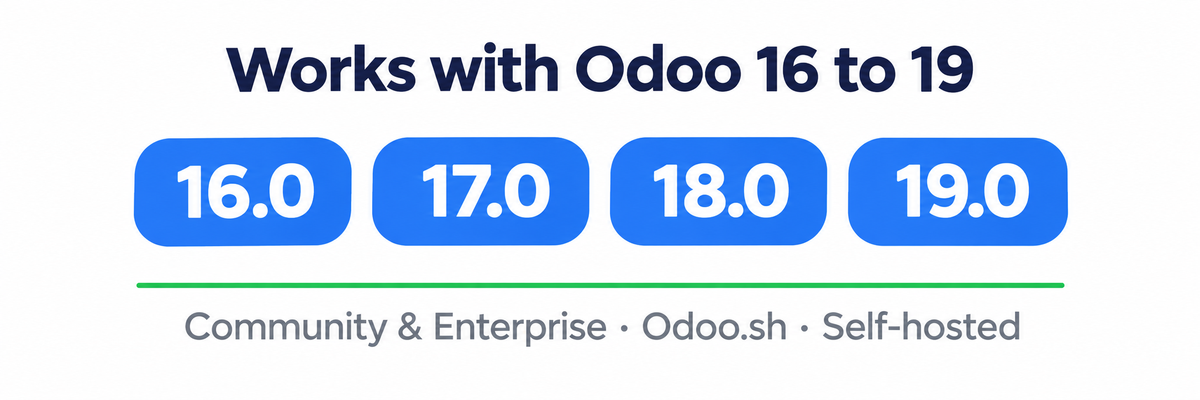
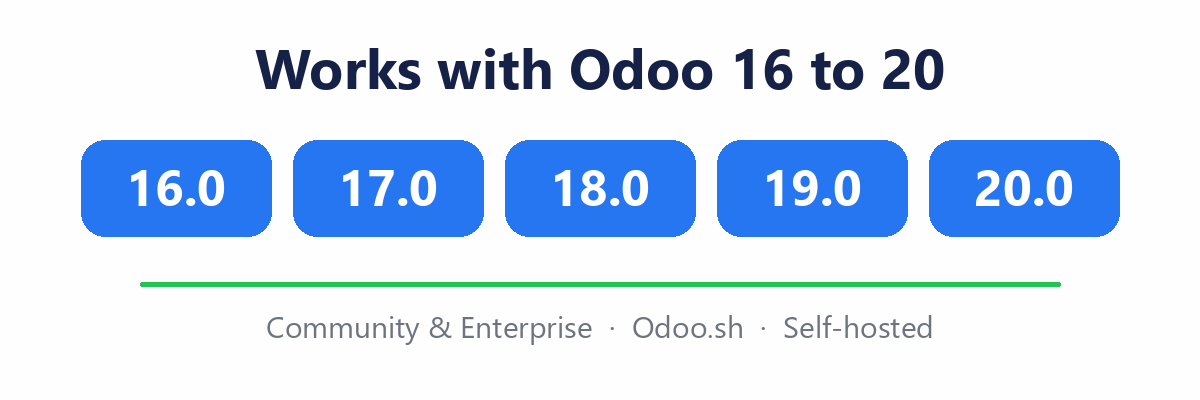
docs: list Odoo 20 support (store image, alt text, README)

diff --git a/qualid_whatsapp/static/description/index.html b/qualid_whatsapp/static/description/index.html
@@ -112,7 +112,7 @@
 
 <section class="oe_container">
     <div class="oe_row oe_spaced" style="text-align:center">
-        <img src="img/versions.png" alt="Works with Odoo 16, 17, 18 and 19" style="max-width:100%"/>
+        <img src="img/versions.png" alt="Works with Odoo 16, 17, 18, 19 and 20" style="max-width:100%"/>
     </div>
 </section>
 

diff --git a/README.md b/README.md
@@ -85,13 +85,14 @@ Error responses carry an `error_code`. Common values are `ODOO_TOKEN_INVALID`, `
 
 ## Version branches
 
-Use the branch that matches your Odoo version. All four pass the same test suite: install, settings page, ready-made automations, rules firing (including PDF headers), empty-variable protection and the send wizard.
+Use the branch that matches your Odoo version. All five pass the same test suite: install, settings page, ready-made automations, rules firing (including PDF headers), empty-variable protection and the send wizard.
 
 | Branch | Odoo | Notes |
 |---|---|---|
 | `17.0` | 17.0 | Primary development version |
 | `18.0` | 18.0 | Same features. The invoice report is called *Invoice PDF* |
 | `19.0` | 19.0 | Same features. Odoo 19 removed `mobile`, so contacts and leads use `phone`. "Before the due date" reminders use the *Before* delay mode |
+| `20.0` | 20.0 | Same features. Odoo 20 needs PostgreSQL 16 or newer. Webhooks send image/file fields as `{"content": "<base64>"}`, which Quali-D also accepts |
 | `16.0` | 16.0 | Same features. Odoo 16 has no "State is set to" trigger, so recipes use *On Creation & Update* on the State field instead. Choose the action type in the rule's *Action To Do* field |
 
 ## License
